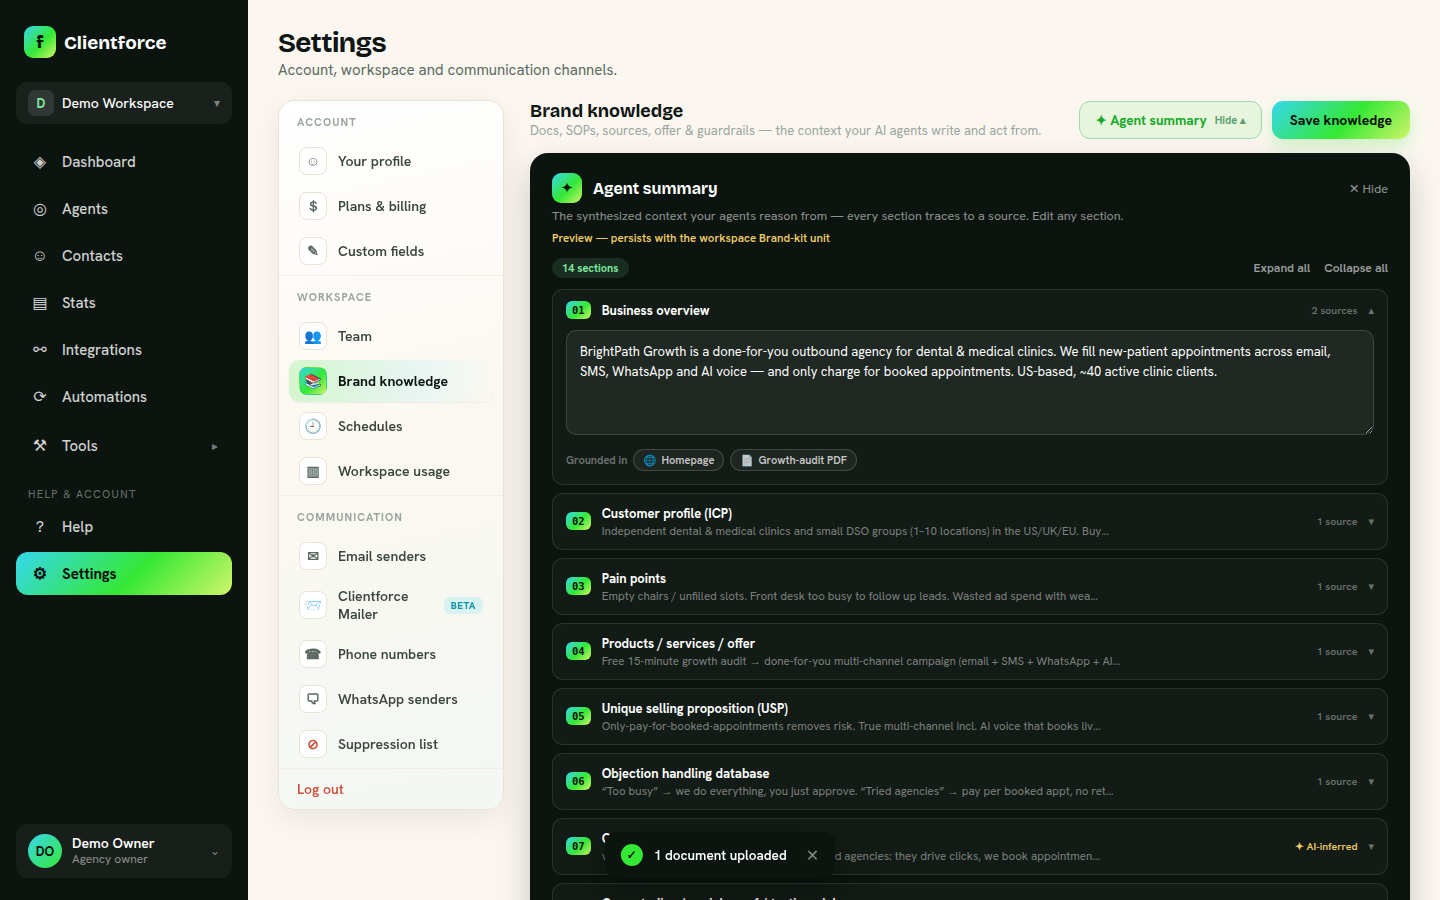
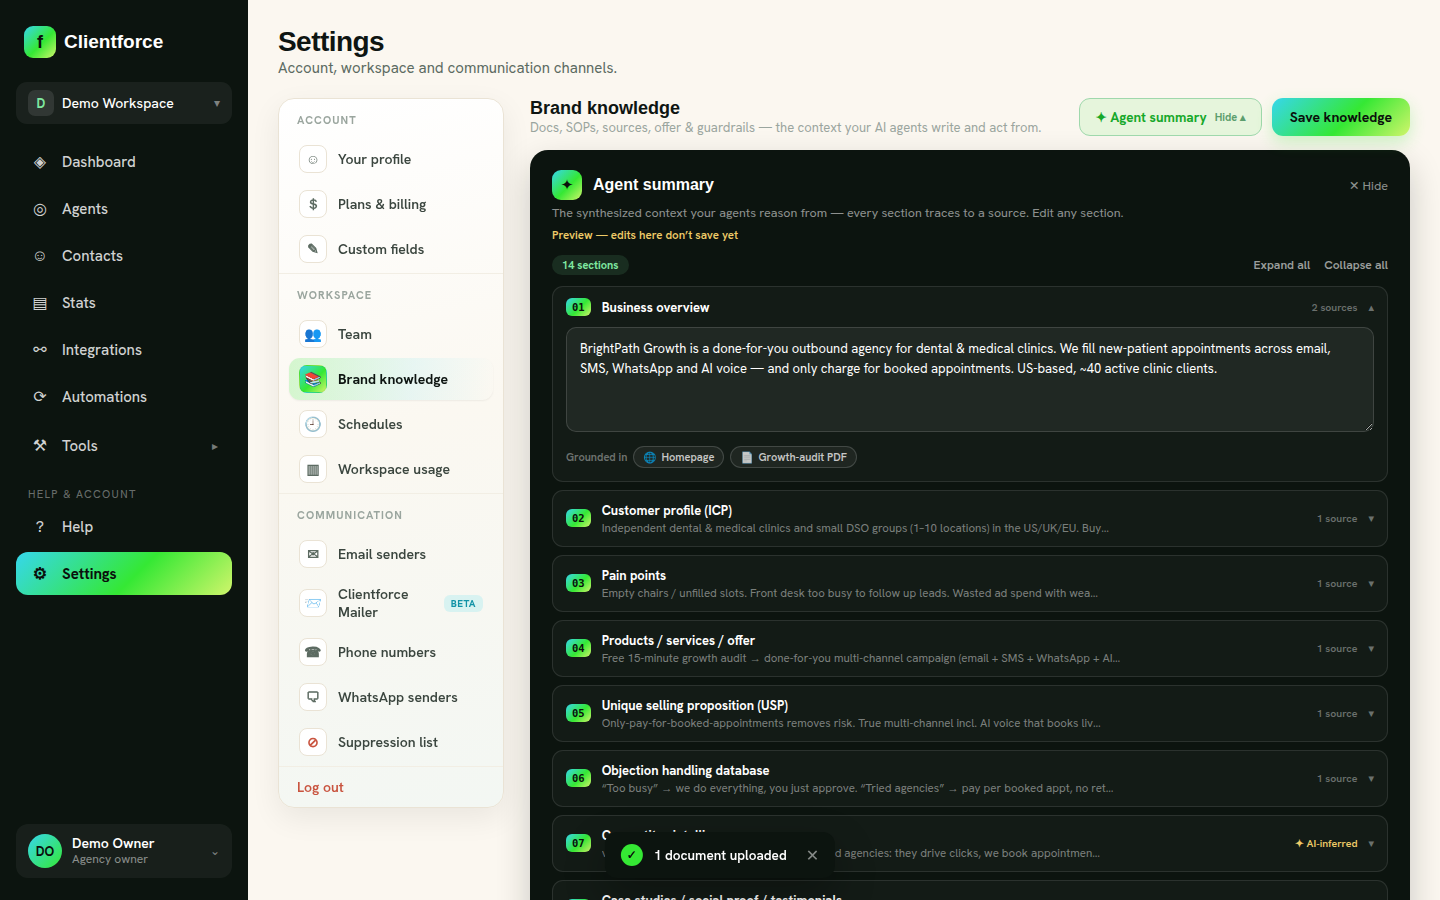
fix(settings): review round — XLSX extraction (Q-009), user-facing preview copy, Brand-kit persistence queued (Q-010)
- 38-1: XLSX extraction lands per the recorded Q-009 resolution — sheets
  parse to text lines (sheet name heading, tab-joined rows) via the xlsx
  package; upload gate + extractor/controller error copy + failure toast
  include XLSX; the docs file input gains
  accept=.pdf,.docx,.xlsx,.txt,.csv,.md. Evidence:
  build-brand-xlsx-indexed.png (real ingest to Indexed)
- 38-2: preview notes reworded user-facing — 'Preview — edits here
  don't save yet' (amber kept); description title likewise
- 38-3: Q-010 queues the Brand-kit persistence work (workspace-level
  P1.3 distillation backing the summary + guardrails previews)

Claude-Session: https://claude.ai/code/session_01JmxT6NmLEUDGYz353FtzHp

diff --git a/packages/knowledge/src/extract.ts b/packages/knowledge/src/extract.ts
@@ -1,5 +1,6 @@
 import { parseHTML } from "linkedom";
 import mammoth from "mammoth";
+import * as XLSX from "xlsx";
 import pdfParse from "pdf-parse";
 
 /** Typed, non-retryable extraction failure → the source goes FAILED with this reason. */
@@ -104,6 +105,31 @@ export async function extractFromDocument(filename: string, data: Buffer): Promi
       if (!text) throw new ExtractionError("DOCX contains no extractable text");
       return text;
     }
+    // Q-009: the Brand-kit dropzone advertises XLSX — sheets ingest as text
+    // lines (one row per line, cells tab-joined, sheet name as a heading).
+    case "xlsx": {
+      let wb: XLSX.WorkBook;
+      try {
+        wb = XLSX.read(data, { type: "buffer" });
+      } catch (e) {
+        throw new ExtractionError(
+          `XLSX parse failed: ${e instanceof Error ? e.message : String(e)}`,
+        );
+      }
+      const blocks: string[] = [];
+      for (const name of wb.SheetNames) {
+        const sheet = wb.Sheets[name];
+        if (!sheet) continue;
+        const rows = XLSX.utils.sheet_to_json<unknown[]>(sheet, { header: 1, raw: false });
+        const lines = rows
+          .map((r) => (Array.isArray(r) ? r.map((c) => String(c ?? "").trim()).join("\t").trim() : ""))
+          .filter(Boolean);
+        if (lines.length > 0) blocks.push(`${name}\n${lines.join("\n")}`);
+      }
+      const text = normalize(blocks.join("\n\n"));
+      if (!text) throw new ExtractionError("XLSX contains no extractable text");
+      return text;
+    }
     case "txt":
     case "csv": // Q-009: the wizard dropzone advertises CSV — rows ingest as plain text
     case "md": {
@@ -121,7 +147,7 @@ export async function extractFromDocument(filename: string, data: Buffer): Promi
       return out;
     }
     default:
-      throw new ExtractionError(`Unsupported document type ".${ext}" — use PDF, DOCX, TXT, CSV or MD`);
+      throw new ExtractionError(`Unsupported document type ".${ext}" — use PDF, DOCX, XLSX, TXT, CSV or MD`);
   }
 }
 

diff --git a/apps/web/app/(shell)/settings/BrandKit.tsx b/apps/web/app/(shell)/settings/BrandKit.tsx
@@ -21,7 +21,7 @@ import {
   sectionCard,
 } from "./shared";
 
-const PREVIEW_NOTE = "Preview — persists with the workspace Brand-kit unit";
+const PREVIEW_NOTE = "Preview — edits here don\u2019t save yet";
 
 // ── seed data (prototype verbatim) ──────────────────────────────────────────
 
@@ -155,7 +155,7 @@ export function BrandKit({ toast }: { toast: (m: string) => void }) {
       if (res?.ok) ok += 1;
     }
     await refresh();
-    toast(ok > 0 ? `${ok} document${ok > 1 ? "s" : ""} uploaded` : "Upload failed — PDF, DOCX, TXT, CSV or MD up to 25 MB");
+    toast(ok > 0 ? `${ok} document${ok > 1 ? "s" : ""} uploaded` : "Upload failed — PDF, DOCX, XLSX, TXT, CSV or MD up to 25 MB");
   }
   async function removeSource(id: string) {
     await cf(`knowledge/sources/${id}`, { method: "DELETE" }).catch(() => {});
@@ -358,7 +358,7 @@ export function BrandKit({ toast }: { toast: (m: string) => void }) {
         </div>
         <div style={{ fontSize: 12.5, color: "#9AA59E", marginBottom: 14 }}>Upload playbooks, SOPs, pricing &amp; FAQs — agents are grounded in everything here.</div>
         <label style={{ display: "flex", flexDirection: "column", alignItems: "center", justifyContent: "center", border: "1.5px dashed #9FD8AC", borderRadius: 13, padding: 24, textAlign: "center", cursor: "pointer", background: "rgba(53,232,52,.04)", marginBottom: 14, boxSizing: "border-box" }} data-testid="docs-dropzone">
-          <input type="file" multiple onChange={(e) => { void uploadDocs(e.target.files); e.target.value = ""; }} style={{ display: "none" }} />
+          <input type="file" multiple accept=".pdf,.docx,.xlsx,.txt,.csv,.md" onChange={(e) => { void uploadDocs(e.target.files); e.target.value = ""; }} style={{ display: "none" }} />
           <span style={{ fontSize: 24, marginBottom: 7 }}>⬆</span>
           <span style={{ fontSize: 14, fontWeight: 700, color: "#0E1512" }}>Drag &amp; drop or browse</span>
           <span style={{ fontSize: 12, color: "#9AA59E" }}>PDF, DOCX, XLSX, TXT, MD · up to 25 MB each</span>
@@ -446,7 +446,7 @@ export function BrandKit({ toast }: { toast: (m: string) => void }) {
       {/* description / offer */}
       <div style={sectionCard} data-testid="brand-description-card">
         <label style={{ ...lbl, marginBottom: 7 }}>Company description</label>
-        <textarea value={description} onChange={(e) => setDescription(e.target.value)} rows={3} style={textarea} title="Persists with the Brand-kit context unit" data-testid="brand-description" />
+        <textarea value={description} onChange={(e) => setDescription(e.target.value)} rows={3} style={textarea} title="Edits here don\u2019t save yet" data-testid="brand-description" />
         <label style={{ ...lbl, margin: "16px 0 7px" }}>Core offer</label>
         <textarea value={offer} onChange={(e) => setOffer(e.target.value)} rows={2} style={textarea} data-testid="brand-offer" />
       </div>

diff --git a/apps/api/src/knowledge/knowledge.controller.ts b/apps/api/src/knowledge/knowledge.controller.ts
@@ -39,7 +39,7 @@ import {
 import type { AiGateway } from "@clientforce/ai";
 
 /** Extensions the extractor supports (extract.ts dispatch) — reject others at the door. */
-const UPLOAD_EXTENSIONS = /\.(pdf|docx|txt|csv|md)$/i;
+const UPLOAD_EXTENSIONS = /\.(pdf|docx|xlsx|txt|csv|md)$/i;
 
 interface UploadedDocument {
   originalname: string;
@@ -115,7 +115,7 @@ export class KnowledgeController {
   async uploadSource(@UploadedFile() file: UploadedDocument | undefined, @Body() body: unknown) {
     if (!file) throw new BadRequestException('Missing multipart "file" field');
     if (!UPLOAD_EXTENSIONS.test(file.originalname)) {
-      throw new BadRequestException("Unsupported document type — upload PDF, DOCX, TXT, CSV, or MD");
+      throw new BadRequestException("Unsupported document type — upload PDF, DOCX, XLSX, TXT, CSV, or MD");
     }
     const dto = parse(uploadKnowledgeSourceSchema, body ?? {});
     const workspaceId = this.tenant.workspaceId;

diff --git a/PROGRESS.md b/PROGRESS.md
@@ -131,6 +131,7 @@ answers persist; no-longer-required answers kept but ignored).
 | Q-007 | Create GitHub issues for P1.1–P1.7, or work from `PHASE1_ISSUES.md` with plans as first PR comments?                                                                                                                 | NON-BLOCKING                                            | Work from the doc; plans go on PRs (owner's kickoff instruction) — no issues unless requested                                          | OPEN                                                                                                                                                                                                                |
 | Q-008 | Cold-email sending path for auto-prospecting: SendGrid AUP prohibits cold/purchased lists, so at scale this tier likely needs user-connected mailboxes or cold-friendly infra + engagement warmup (pairs with Q-005) | NON-BLOCKING for Phase 1 (allow-listed test sends only) | Decide alongside the phase that activates user-owned senders (`GMAIL_OAUTH`/`OUTLOOK_OAUTH`/`SMTP` tiers)                              | OPEN (owner-raised 2026-07-03; owner referenced it as "Q-006" — filed as Q-008, that ID was taken)                                                                                                                  |
 | Q-009 | Uploaded checkpoints §6 lists **XLSX** among Brand-kit Company-docs upload types (PDF, DOCX, XLSX, TXT, MD · 25 MB) — the P1.2 extractor + upload filter support PDF/DOCX/TXT/MD only                                | NON-BLOCKING                                            | Add XLSX extraction (sheet → text) when C2.6 wires the Brand-kit upload surface; until then the API rejects .xlsx with a clear message | **RESOLVED 2026-07-04** — owner: defer to C2.6, with the accept-list rule logged in checkpoints §6 (accept list must match extractor capabilities at wiring time; never advertise a format that fails after upload) |
+| Q-010 | **Brand-kit persistence** — the Settings → Brand kit Agent-summary + Guardrails cards ship as amber previews (C2.6/DEC-045); the backing work is workspace-level P1.3 distillation (14-section summary model + guardrails persistence + citations) | NON-BLOCKING | Previews render the full prototype anatomy with the amber "edits here don't save yet" note; offer/docs/web-sources already persist | OPEN — queued after C2.7 (owner to slot; the amber note resolves when it lands) |
 
 ## Live verification log
 